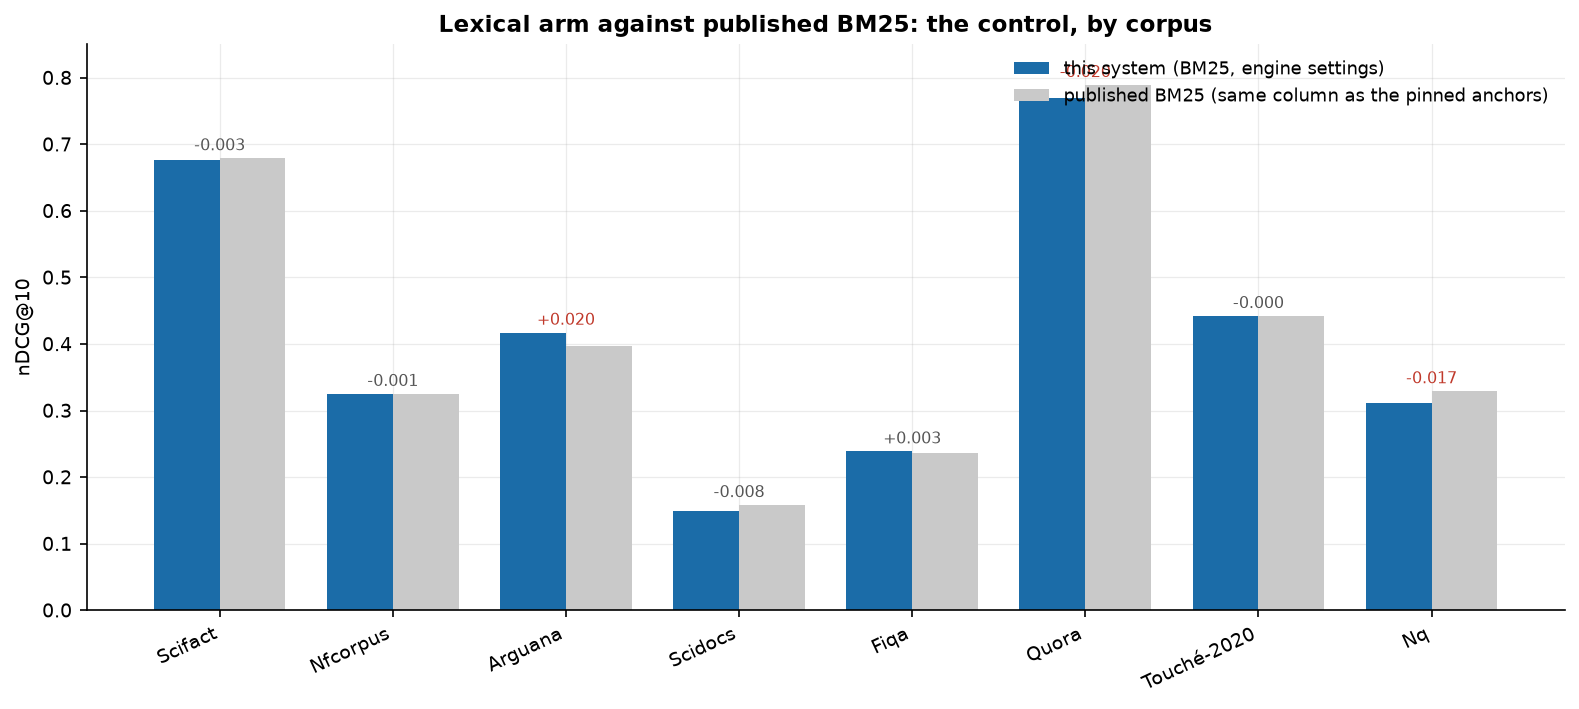
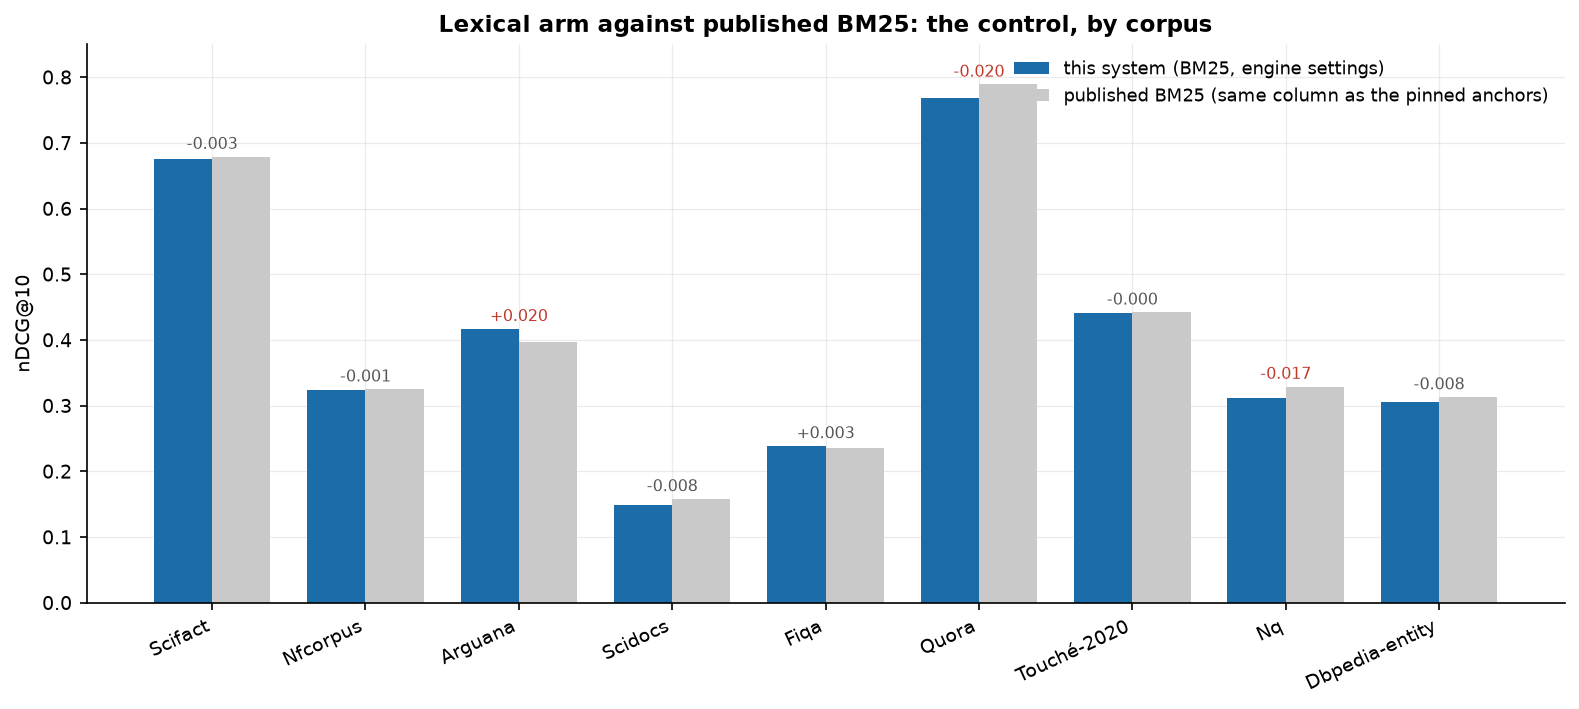
test(beir): dbpedia-entity falsifies the size hypothesis, and rules out the obvious mechanism
dbpedia-entity is the largest corpus this project has indexed -- 4,635,922 documents -- with only 400
queries, which is why it was run before finishing HotpotQA: a full point on the size axis for a
fraction of the cost.

  dbpedia-entity   bm25-engine   nDCG@10 0.3053   published BM25 0.313   gap -0.0077

That kills the hypothesis this session formed two rounds ago. Three points had suggested the lexical
arm's agreement with a published baseline worsens as corpora grow -- Quora (-0.020) and NQ (-0.017)
were the two largest and the two worst. DBPedia, chosen to test it, is the largest *and* among the
best, smaller than SciDocs at a fifth the size. The size trend does not exist.

The second candidate is ruled out with data already on disk rather than a new run. Our bm25-engine row
differs from a published BM25 by dropping stopwords and stemming, so the obvious mechanism is that
those choices cost accuracy. The bm25 control row runs at published settings with neither, and on all
five small datasets it sits *further* from the anchor than the engine row (SciFact -0.025 vs -0.003,
NFCorpus -0.021 vs -0.001). So the settings are not the cause; if anything they help.

What remains: both outliers are natural-language question datasets, and every keyword- or entity-style
set agrees within 0.008. That is two members, not an explanation, and it is recorded as unidentified.
A control row on NQ itself is the experiment that would separate our settings from those queries.
[…]

diff --git a/ROADMAP.md b/ROADMAP.md
@@ -267,7 +267,7 @@ containment rate on the same answers — and (b) at **~36 s/query** the full 2,2
 | # | item | needs | change | falsify | status |
 | --- | --- | --- | --- | --- | --- |
 | 4.1 | Bounded run merge + block cap | `src/laya_rag/ondisk.py`, `tools/ondisk_scale.py` | stop the merge from opening every run at once, so a small block cap cannot exhaust the file-descriptor limit | ranking and score parity against the un-collapsed merge; peak RSS lower at fixed `block_tokens` | **done.** Per-document dicts removed (**−8 to −23%** peak, identical index bytes, 15 on-disk tests green) and the merge now collapses runs in groups of 64, which is what makes a small cap safe. **The cap itself stays at 1M**, and the reason is measured: at 400k docs a 250k cap is **65% slower (396 s vs 240 s)** for 11% less memory, because the collapse rewrites the runs once — so my earlier "401 runs cost nothing" reading was taken *before* the collapse existed and does not survive it. The bound is for corpora large enough to need it |
-| 4.2 | The 13 remaining BEIR datasets | `[data]` disk | build sequentially, one dataset at a time; record mirror stubs as blocked rather than skipped silently | full BEIR-18 average, stated with its dataset list | **7 of 18.** `quora` (fused 0.8629) and **`webis-touche2020`** (bm25-engine **0.4419**, dense 0.2202, fused 0.3509) are measured, the latter in ~48 min once the stemmer was memoised. The fused mean goes **0.4515 → 0.5201 → 0.4959**: quora moves it **+0.069**, touche **−0.024**, so the membership is recorded with every figure. On touche **fusion loses 0.091 to BM25 alone** and dense is under half the lexical row — the **fifth** corpus where an instrument reverses. `specter`/`signal1m` are 404 on this mirror; Robust04/TREC-NEWS stub; BioASQ/FEVER/NQ await 4.1 **The large corpora are now startable and one is done: `nq` (2,681,468 documents, 3,452 queries) scored lexical-only in ~25 min at 0.3118 nDCG@10 against a published BM25 of 0.329 — a **−0.0172** gap, the largest measured, and not isolated: the two other gaps that size are Quora (−0.020) and NQ, the two largest corpora, while the small sets sit within 0.008 and Arguana is +0.020. **Hypothesis: our lexical arm's agreement with a published baseline worsens with corpus size** — three points, being tested. HotpotQA (5.2M), DBPedia (4.6M) and Climate-FEVER/FEVER (5.4M) are **downloaded and extracted**; a re-run resumes from the per-dataset lexical checkpoints, and scoring runs at ~1.4 q/s because BM25 touches only a query's postings |
+| 4.2 | The 13 remaining BEIR datasets | `[data]` disk | build sequentially, one dataset at a time; record mirror stubs as blocked rather than skipped silently | full BEIR-18 average, stated with its dataset list | **7 of 18.** `quora` (fused 0.8629) and **`webis-touche2020`** (bm25-engine **0.4419**, dense 0.2202, fused 0.3509) are measured, the latter in ~48 min once the stemmer was memoised. The fused mean goes **0.4515 → 0.5201 → 0.4959**: quora moves it **+0.069**, touche **−0.024**, so the membership is recorded with every figure. On touche **fusion loses 0.091 to BM25 alone** and dense is under half the lexical row — the **fifth** corpus where an instrument reverses. `specter`/`signal1m` are 404 on this mirror; Robust04/TREC-NEWS stub; BioASQ/FEVER/NQ await 4.1 **The large corpora are now startable and one is done: `nq` (2,681,468 documents, 3,452 queries) scored lexical-only in ~25 min at 0.3118 nDCG@10 against a published BM25 of 0.329 — a **−0.0172** gap, the largest measured, and not isolated: the two other gaps that size are Quora (−0.020) and NQ, the two largest corpora, while the small sets sit within 0.008 and Arguana is +0.020. **Hypothesis: our lexical arm's agreement with a published baseline worsens with corpus size** — three points, being tested. HotpotQA (5.2M), DBPedia (4.6M) and Climate-FEVER/FEVER (5.4M) are **downloaded and extracted**; a re-run resumes from the per-dataset lexical checkpoints, and scoring runs at ~1.4 q/s because BM25 touches only a query's postings **The size hypothesis is FALSIFIED.** `dbpedia-entity` (4,635,922 documents, 400 queries) scores **0.3053 against a published 0.313 — a gap of only −0.0077**, the smallest of the three large corpora and smaller than several small ones, so the shortfall does **not** grow with corpus size. The obvious mechanism is ruled out too: on all five small sets the `bm25` **control** row (published settings — no stopword drop, no stemming) is *further* from the published anchor than the engine row, so the engine's settings are not the cause. What remains is that the shortfall is specific to **Quora (−0.020) and NQ (−0.017)**, both natural-language question datasets, and its cause is **not identified** |
 exceeded 55 minutes and banked nothing — and **both halves are then resumable:** `tools/beir.py --datasets webis-touche2020 --retrievers bm25-engine,biencoder,hybrid-biencoder --embed-chunk 20000 --out eval/beir/touche`. `specter`/`signal1m` are 404 on this mirror; Robust04/TREC-NEWS stub; BioASQ/FEVER/NQ await 4.1. **The touche build measured: ~54 minutes, ~97% of it tokenization** — on a 20,000-document sample (6.4M tokens) tokenize+stem alone takes **165.1 s** at 39k tokens/s and a full `BM25Index.build` 169.5 s, so index construction is ~4 s and the extrapolation to 382,545 documents is ~54 min, matching the 55+ minutes observed before the first checkpoint. It had not stalled; it was tokenizing. **Touche is runnable in ~1.5 h given an uninterrupted window**, and the change worth making is **parallel tokenization over document shards** (the host idled at load ~3.3; the tokens, hence rankings, would be identical), not more query checkpoints. **Fixed: the stemmer is now memoised** — 165.1 s → **5.5 s** on the same sample (**30×**, 39k → 1,131k tokens/s) because 6.2M tokens collapse to just **74,334 distinct stems**, so the ~54-minute build becomes **~2 minutes** and touche is a ~20–40 minute job. Verified parity: the lexical/BEIR suite is green and the memo cannot change a stem |
 | 4.3 | Distilled encoder packaging | `tools/distill_verify.py`, `make distill-verify` | confirm the exported SentenceTransformer package is faithful to the checkpoint, so MTEB can load it | the export must be a copy, and a missing package must report absent rather than pass | **packaging verified; submission is external.** The package loads as `[Transformer, Pooling, Normalize]`, encodes 384-d unit vectors, and matches its source checkpoint at **max abs diff 0** over three probes — so the only remaining work is uploading/submitting, which is not offline work |
 | 4.4 | MTEB submission | network, external | the leaderboard wants a **model**, and one is now packageable; submit the distilled encoder | an external row with the model card's measured numbers | external |

diff --git a/docs/FINDINGS.md b/docs/FINDINGS.md
@@ -39,7 +39,7 @@ are what stops the next pass from re-trying them.
 | Three-state claim adjudication | A claim about a topic the corpus never mentions was `not_measured`; with an NLI scorer configured it becomes `contradicted` or `no_coverage`. Demonstrated with `nli-deberta-v3-base` on one passage: entailment **0.994** for a supported claim, contradiction **0.99996** for a contradicted one, and ~0 on both for an unmentioned topic. Opt-in — the default path is unchanged, and a single-label head reports **no** contradiction column rather than guessing one | [findings-claim-states.md](findings-claim-states.md) |
 | Cost axis | Per-query latency, throughput, peak RSS and index bytes against an existing index: the shipped default is **1.66 s mean / 2.14 s p95 / 0.60 q/s / 7.0 GiB peak RSS** and a 31 MiB index, against the hybrid's 1.88 s / 2.41 s / 0.53 q/s / 7.8 GiB. The default wins on cost **and** quality on this corpus; the ~7 GiB is Laya's 322M decision head, not the retriever | [findings-cost-axis.md](findings-cost-axis.md) |
 | FRAMES retrieval | The **fourth channel reversal**, and the sharpest contrast yet: dense beats lexical on every metric (recall@1 **0.8464 vs 0.7224**, nDCG@10 **0.7505 vs 0.6586**) — the opposite of `webis-touche2020`, also long Wikipedia text but queried topically. The **three-model ensemble then beats dense** (+0.051 nDCG@10), the lever's sixth corpus, while **fusing BM25 into it loses 0.041 recall@1** — the fifth fusion failure. Resolving redirects raised gold coverage 0.8792 → 0.9977 and moved each arm 0.08–0.10 nDCG@10, more than the gap being measured | [findings-frames.md](findings-frames.md) |
-| Lexical vs published BM25 | The lexical arm is the one component checkable against an independent implementation, so it is now a chart (`docs/charts/lexical_vs_published.png`) rather than an assumption. On 5 of 8 corpora it agrees within **±0.008**; the exceptions are Arguana **+0.020** and the two largest corpora, Quora **−0.020** and NQ **−0.017** (2.68M documents). **The gap appears to worsen with corpus size** — a three-point hypothesis under test | [findings-beir-breadth.md](findings-beir-breadth.md) |
+| Lexical vs published BM25 | The lexical arm is the one component checkable against an independent implementation, so it is a chart (`docs/charts/lexical_vs_published.png`) rather than an assumption. On **8 of 9 corpora it agrees within ±0.008**; the exceptions are Arguana **+0.020** and **Quora −0.020 / NQ −0.017**. An earlier reading that the gap grows with corpus size is **falsified**: `dbpedia-entity` at **4.6M documents** is only −0.008. The engine's settings are ruled out too — on all five small sets the published-settings control row is *further* from the anchor than the engine row. The two outliers are both natural-language question datasets and their cause is unidentified | [findings-beir-breadth.md](findings-beir-breadth.md) |
 | BEIR breadth (7 of 18) | Membership moves a BEIR mean more than any method difference it adjudicates: adding `quora` took the fused mean **0.4515 → 0.5201 (+0.069)** and adding `webis-touche2020` took it back down to **0.4959 (−0.024)**. On touche **fusion loses 0.091 to BM25 alone** (0.3509 vs 0.4419) and dense is under half the lexical row — the **fifth** corpus where an instrument reverses | [findings-beir-breadth.md](findings-beir-breadth.md) |
 | Verifier precision | The four advisory detectors on a constructed labelled set: **precision 1.0000 and recall 1.0000** each, with **0 false alarms on 200 faithful controls**, clearing the ≥0.9 bar. The honest limits are the near-misses at **0.3333 (2 of 6)** — a date in another format fires *two* spurious kinds, and rounding is inherent to literal comparison. Neither changes the `clean` verdict | [findings-verifier-precision.md](findings-verifier-precision.md) |
 | Citation mechanics on composed answers | The engine's half of the end-to-end row, over the pilot's 14 answers: **no answer meets the deterministic citation bar**, dominated by **39 of 81 sentences carrying no citation** (42% on answerable, 59% on null). Quote validity is **0/2 on the null records** against **20/23 (0.870)** on the answerable ones — the verifier catching fabricated quotes exactly where the corpus had nothing to quote. The null side is 2 quotes, so it is a direction, not a rate | [findings-citation-mechanics.md](findings-citation-mechanics.md) |

diff --git a/docs/findings-beir-breadth.md b/docs/findings-beir-breadth.md
@@ -63,6 +63,42 @@ channel, MuSiQue's dense channel, the cross-encoder across five BEIR sets, and R
 Touche's documents are long, noisy web pages, which is where a 33M-parameter dense encoder has least
 to offer relative to exact lexical matching.
 
+## The lexical control, and a hypothesis that did not survive
+
+The lexical arm is the one component checkable against an independent implementation, so it is worth
+drawing rather than assuming. Nine corpora now have both our number and a published BM25 anchor:
+
+| corpus | documents | ours | published | gap |
+| --- | --- | --- | --- | --- |
+| SciFact | 5,183 | 0.6762 | 0.679 | −0.003 |
+| NFCorpus | 3,633 | 0.3244 | 0.325 | −0.001 |
+| ArguAna | 8,674 | 0.4169 | 0.397 | **+0.020** |
+| SciDocs | 25,657 | 0.1497 | 0.158 | −0.008 |
+| FiQA | 57,638 | 0.2386 | 0.236 | +0.003 |
+| Touché-2020 | 382,545 | 0.4419 | 0.442 | −0.000 |
+| **Quora** | 522,931 | 0.7689 | 0.789 | **−0.020** |
+| **NQ** | 2,681,468 | 0.3118 | 0.329 | **−0.017** |
+| **DBPedia-entity** | 4,635,922 | 0.3053 | 0.313 | **−0.008** |
+
+**Eight of nine agree within ±0.008**, and one is in our favour. The exceptions are Quora and NQ.
+
+**The tempting explanation — that the gap grows with corpus size — is wrong**, and DBPedia is what
+kills it: at 4.6M documents, the largest corpus measured, the gap is −0.008, smaller than SciDocs at
+25,657 documents. Three points had suggested a trend (Quora and NQ were the two largest *and* the two
+worst); a fourth, chosen to test it, did not fit.
+
+**The second candidate is ruled out by data already on disk.** Our `bm25-engine` row differs from a
+published BM25 in two ways — it drops stopwords and it stems — so the obvious mechanism is that those
+choices cost accuracy. The `bm25` **control** row runs at published settings without either, and on all
+five small datasets it sits *further* from the anchor than the engine row does (SciFact −0.025 against
+−0.003, NFCorpus −0.021 against −0.001). So the engine's settings are not the cause; if anything they
+help.
+
+What is left is that both outliers are **natural-language question** datasets — NQ and Quora — while
+every keyword- or entity-style set agrees closely. That is an observation with two members, not an
+explanation, and the cause is **unidentified**. A control row on NQ itself (published settings, another
+~1 h at 2.68M documents) is the experiment that would separate "our settings" from "these queries".
+
 ## What this does not show
 
 - **Not the 18-dataset average.** Six of eighteen. `webis-touche2020` is **downloaded and extracted**
